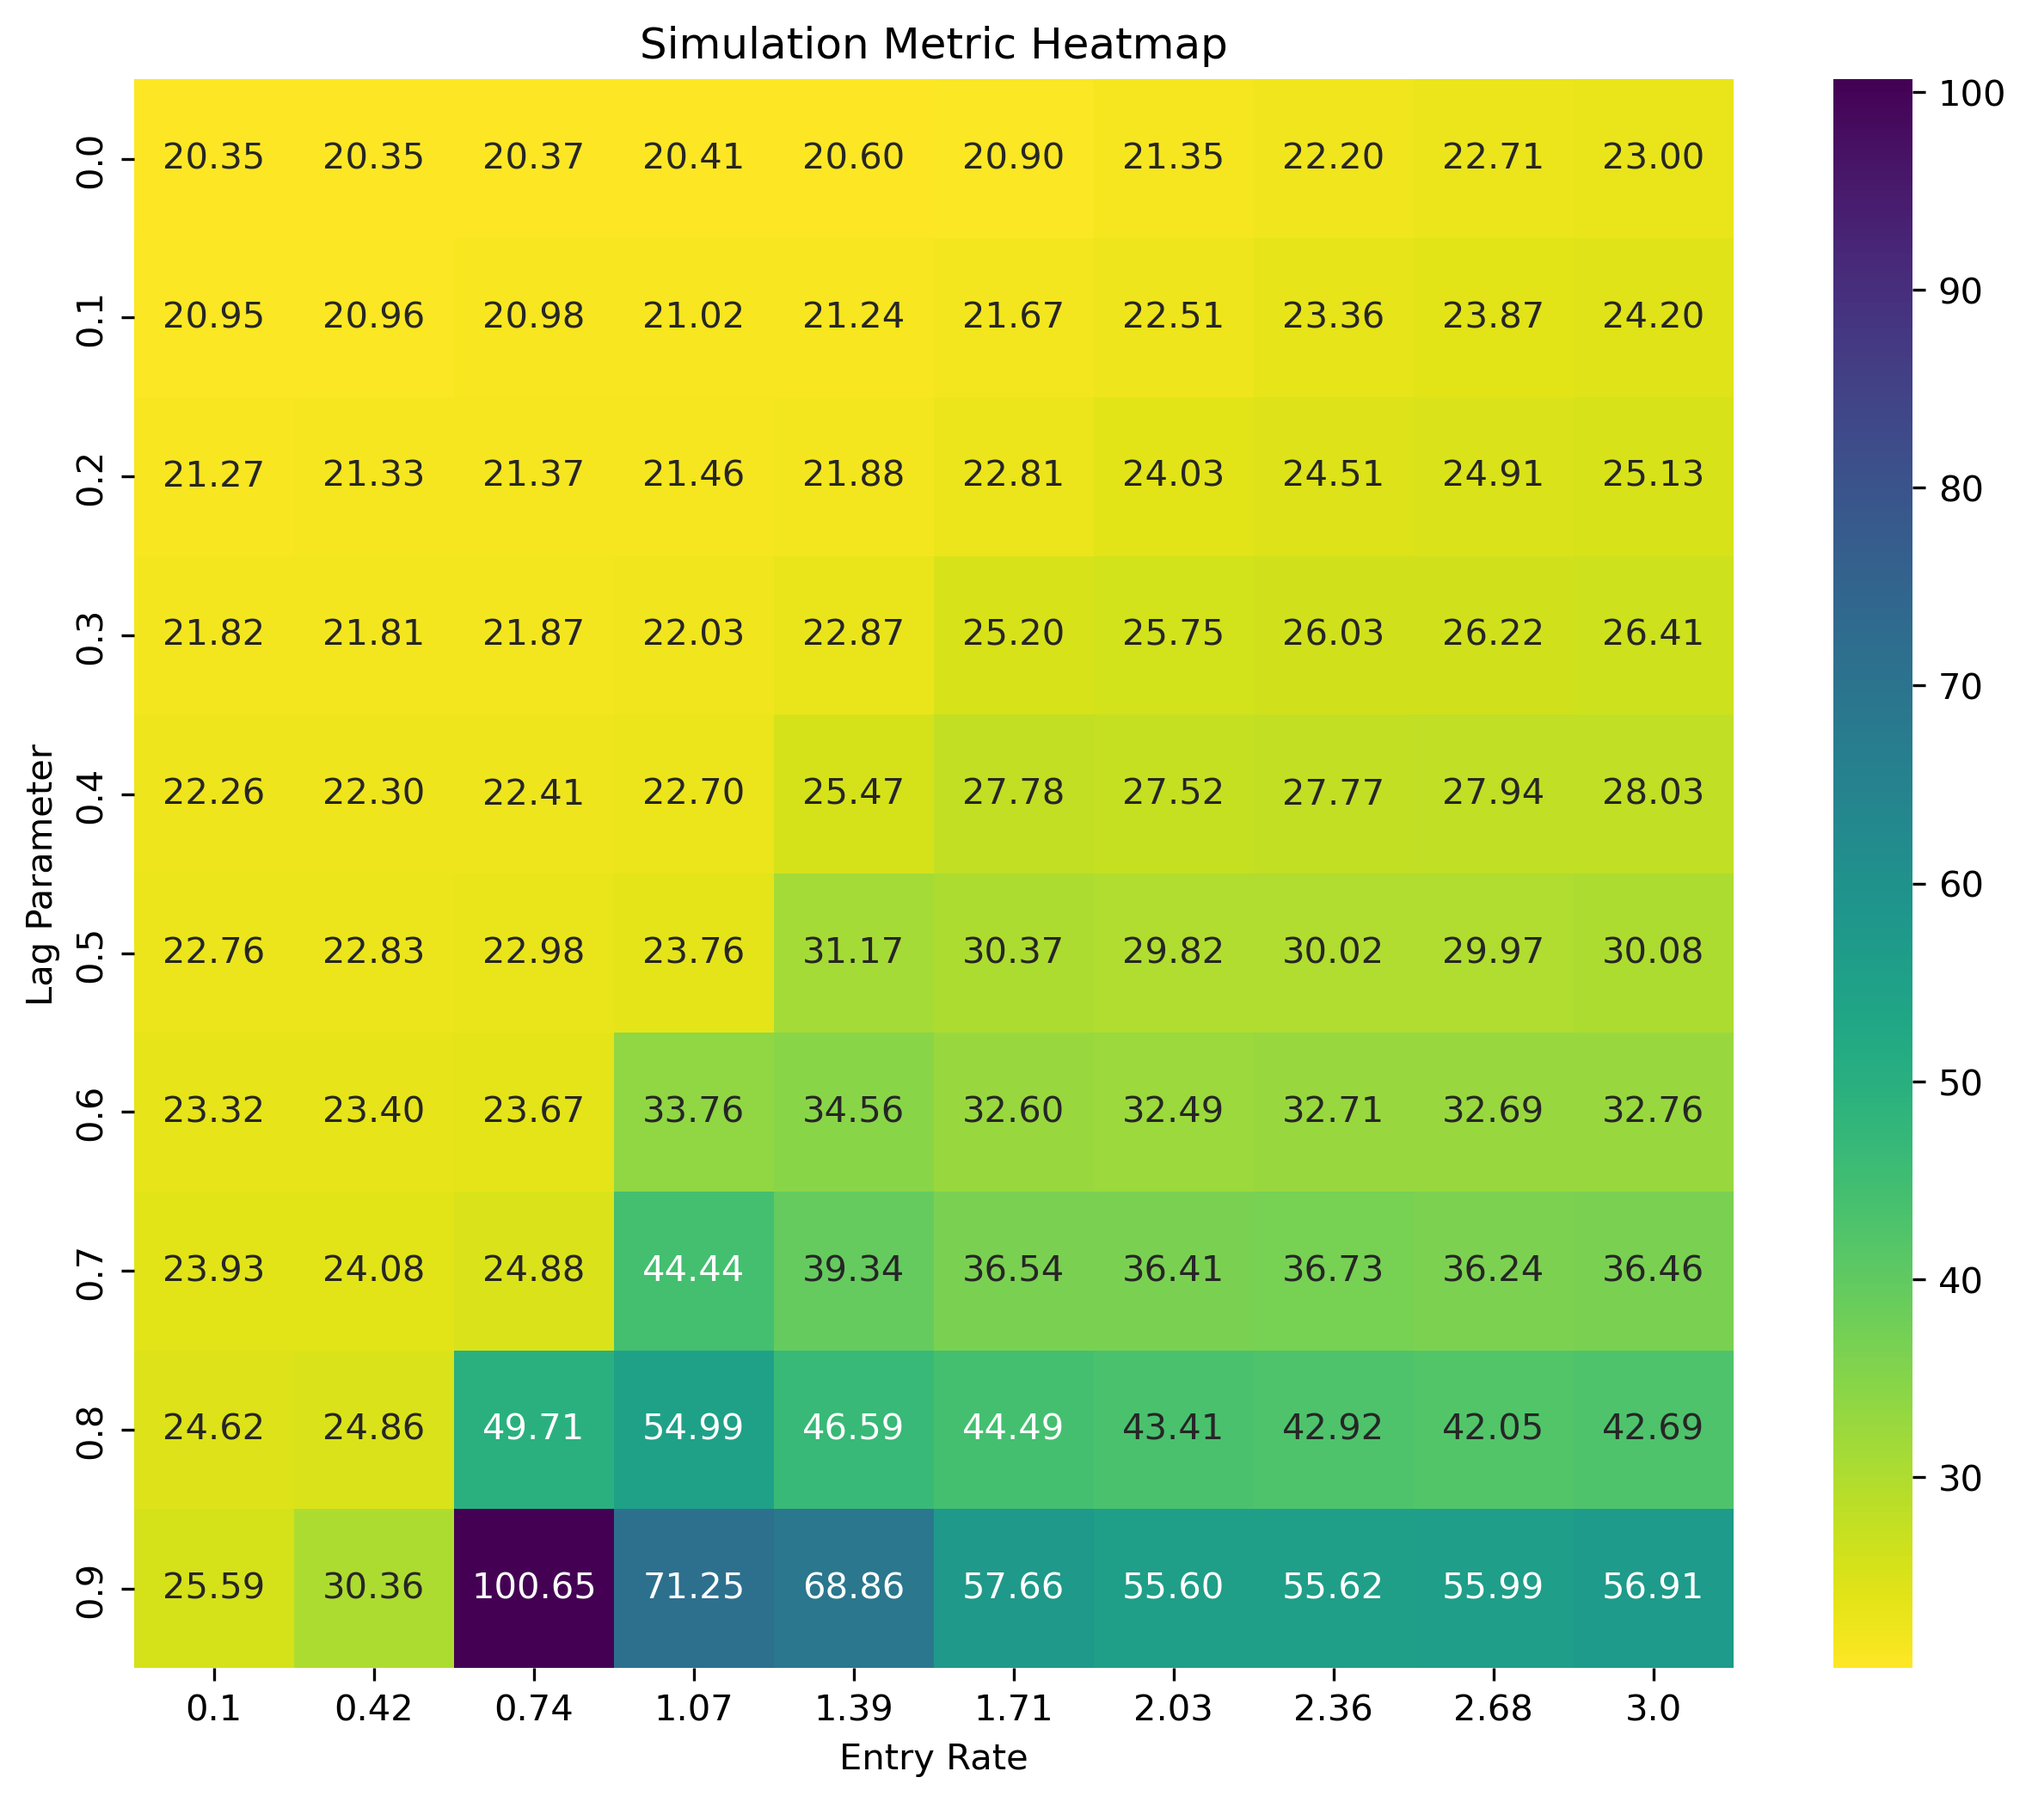
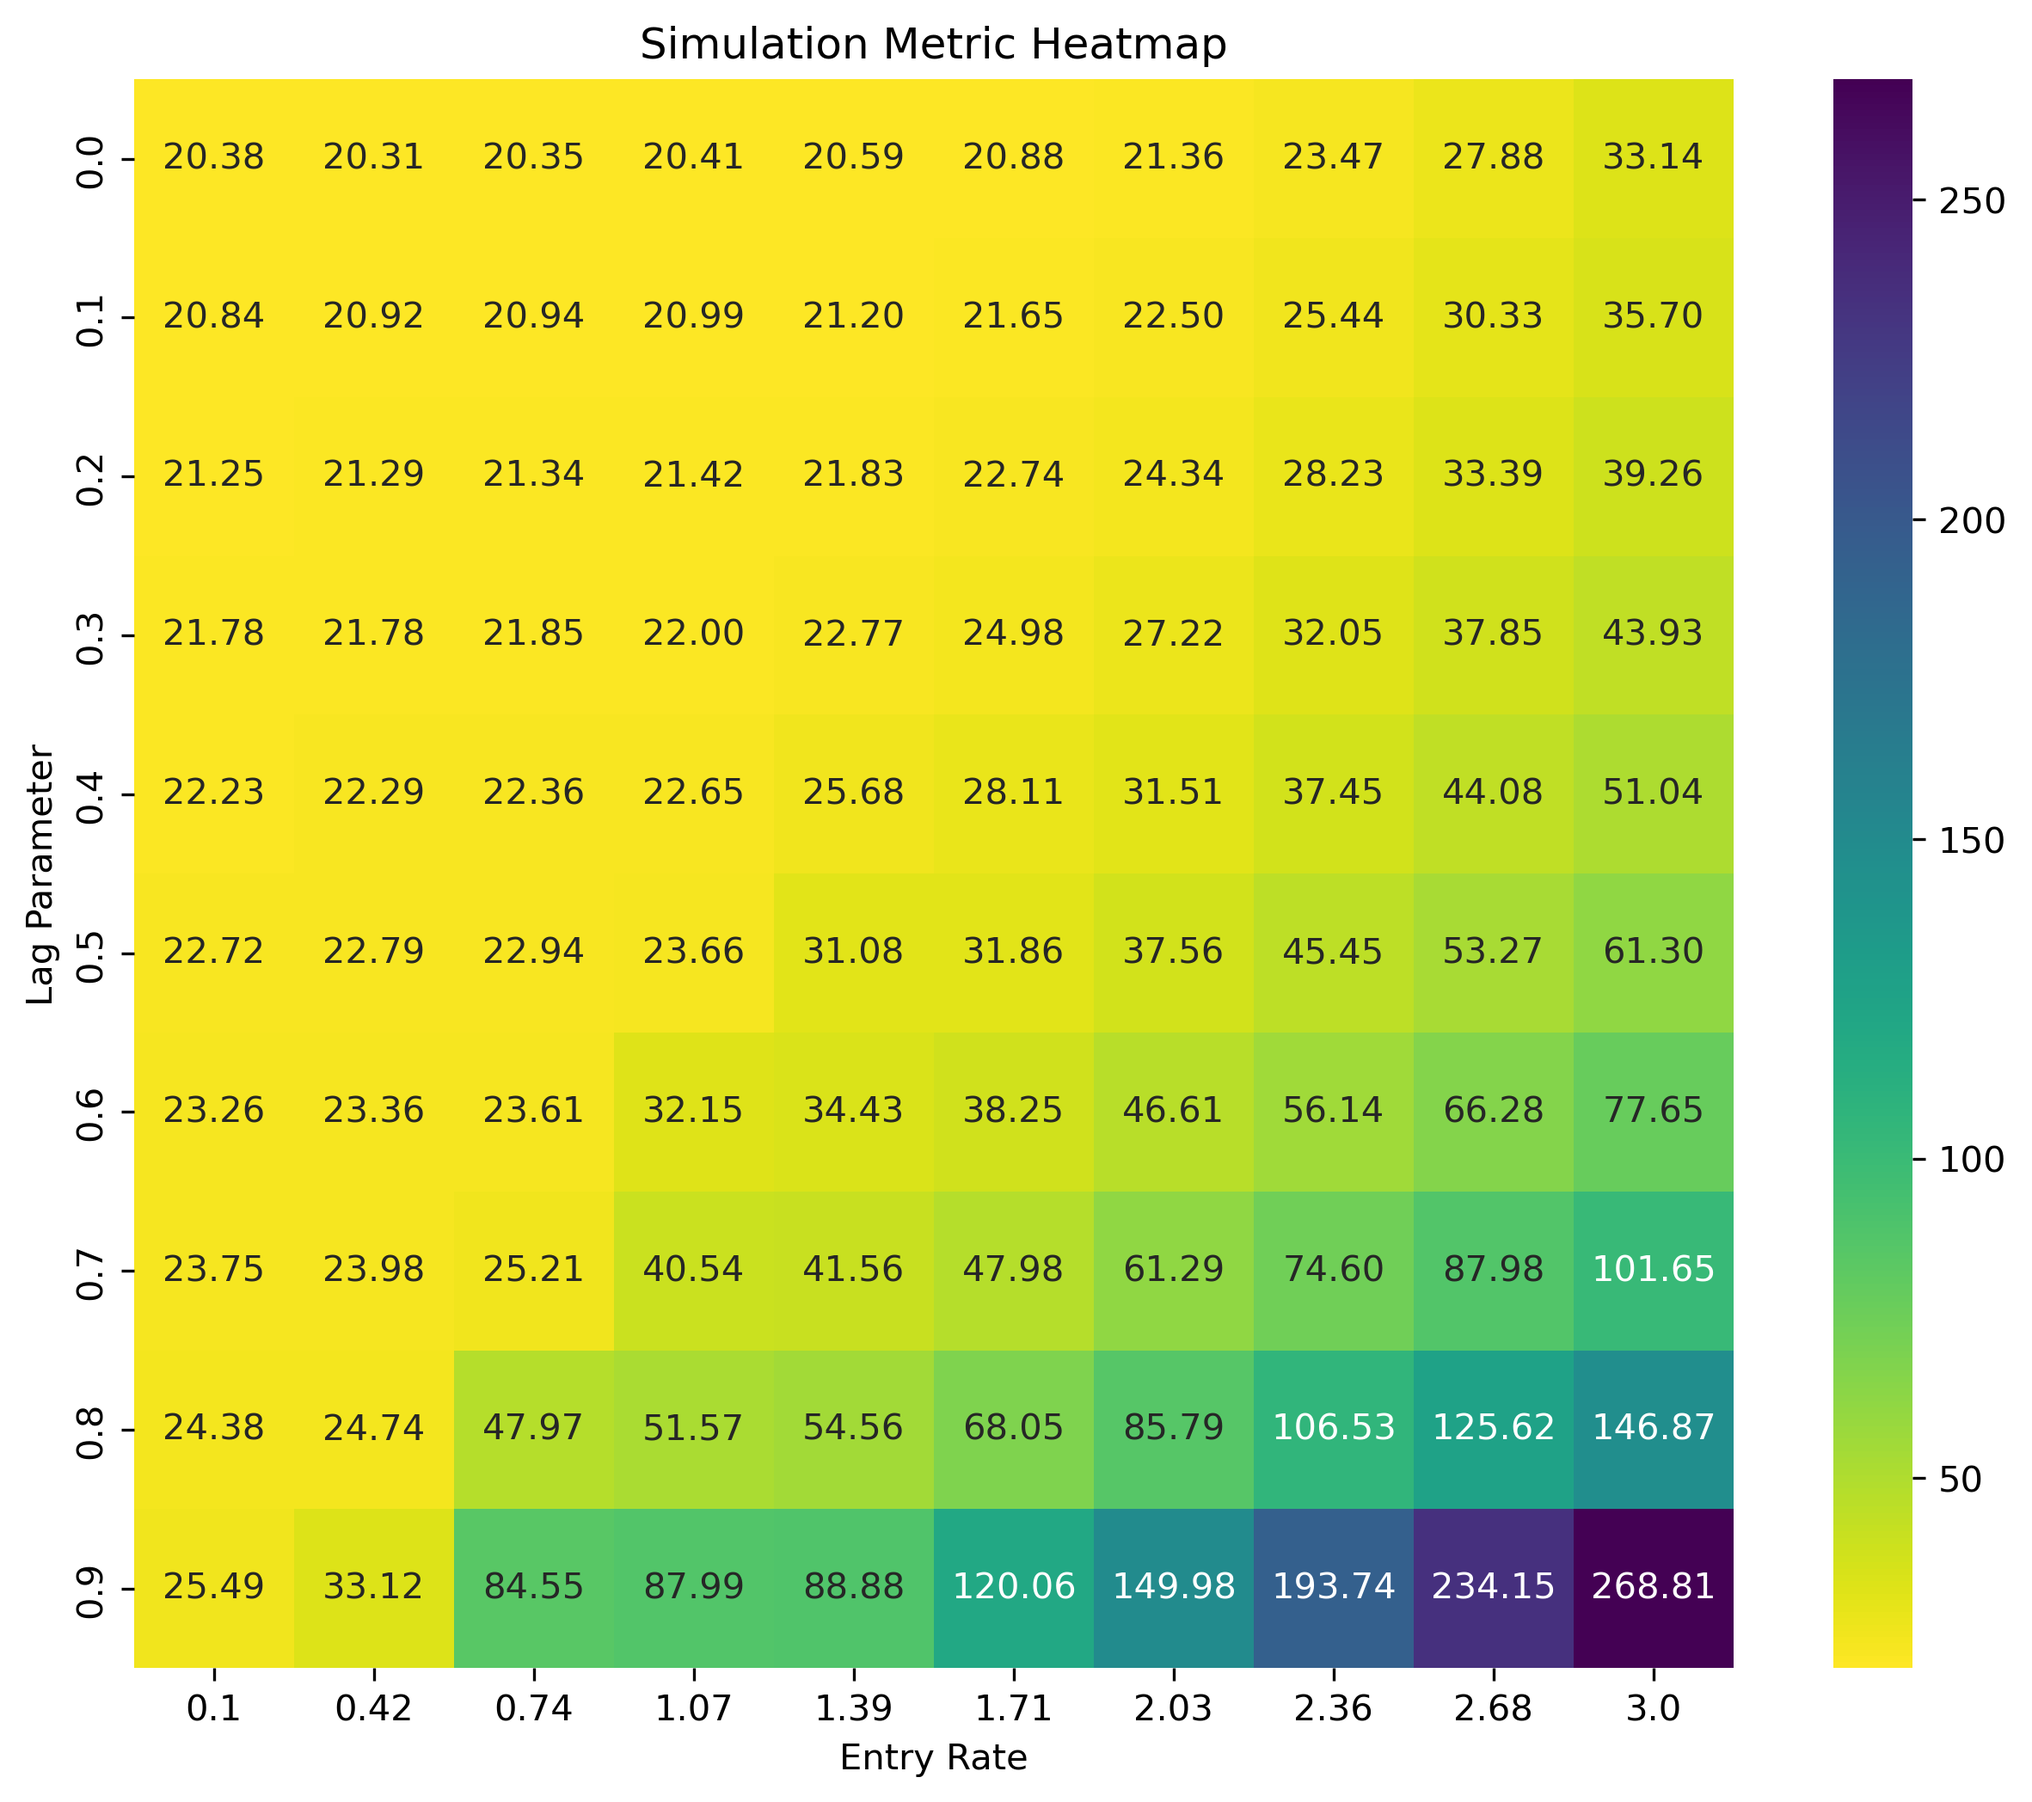
Added calibration

diff --git a/simulation/Calibration.py b/simulation/Calibration.py
@@ -1,0 +1,102 @@
+import numpy as np
+import math
+from concurrent.futures import ProcessPoolExecutor
+
+from SimulationMultiple import SimulationMultiple
+
+class Calibration:
+    def __init__(self, target_travel_time, convergence_range=1, road_length=100, lanes=3,
+                 lag_parameter_min=0, lag_parameter_max=0.9, entry_rate_min=0.1, entry_rate_max=3, repetitions=10):
+        self.target_travel_time = target_travel_time
+        self.convergence_range = convergence_range
+        self.road_length = road_length
+        self.lanes = lanes
+        self.repetitions = repetitions
+
+        self.lag_parameter_min = lag_parameter_min
+        self.lag_parameter_max = lag_parameter_max
+        self.entry_rate_min = entry_rate_min
+        self.entry_rate_max = entry_rate_max
+
+    def calibrate(self, lag_parameter=None, entry_rate=None):
+        # Set the initial parameters if not given
+        if lag_parameter is None:
+            # Initialize the lag_parameter smaller, because it makes sense in the modeled system to not dawdle too much
+            lag_parameter = (self.lag_parameter_max - self.lag_parameter_min) / 3
+        if entry_rate is None:
+            entry_rate = (self.entry_rate_max - self.entry_rate_min) / 2
+        
+        # Define the update steps for the calibration
+        lag_parameter_step = (self.lag_parameter_max - self.lag_parameter_min) / 10
+        entry_rate_step = (self.entry_rate_max - self.entry_rate_min) / 10
+        
+        dist = math.inf
+        counter = 0
+        with ProcessPoolExecutor() as executor:
+            while dist > self.convergence_range and counter < 100: # Hard break criterion
+                counter += 1
+
+                sum_of_avg_travel_times = 0
+                indices = [(self.road_length, self.lanes, lag_parameter, entry_rate)] * self.repetitions
+                for value in executor.map(Calibration.run_simulation, indices):
+                    sum_of_avg_travel_times += value
+                self.result_travel_time = sum_of_avg_travel_times / self.repetitions
+
+                dist_old = dist
+                dist = abs(self.result_travel_time - self.target_travel_time)
+                is_larger = True if self.result_travel_time > self.target_travel_time else False
+
+                self.result_lag_parameter = lag_parameter
+                self.result_entry_rate = entry_rate
+
+                print(f"{counter}. Iteration with lag_parameter {lag_parameter:.3f} and entry_rate {entry_rate:.3f} results in {self.result_travel_time:.2f}s travel time ({dist:.2f}s too {"much" if is_larger else "little"})")
+
+                sign_mult = -1 if is_larger else 1
+
+                lag_parameter_old = lag_parameter
+                lag_parameter += sign_mult * lag_parameter_step
+                lag_parameter = max(min(lag_parameter, self.lag_parameter_max), self.lag_parameter_min)
+                is_lag_parameter_edged = lag_parameter == lag_parameter_old
+
+                entry_rate_old = entry_rate
+                entry_rate += sign_mult * entry_rate_step
+                entry_rate = max(min(entry_rate, self.entry_rate_max), self.entry_rate_min)
+                is_entry_rate_edged = entry_rate == entry_rate_old
+
+                # With increasing iterations increasingly decrease the step sizes
+                step_mult = (0.9 - 0.5*counter/100) if dist <= dist_old else (1.1 - 0.1*counter/100)
+                lag_parameter_step *= step_mult
+                lag_parameter_step = max(lag_parameter_step, (self.lag_parameter_max - self.lag_parameter_min) / 100) # Steps are atleast 1%
+                entry_rate_step *= step_mult
+                entry_rate_step = max(entry_rate_step, (self.entry_rate_max - self.entry_rate_min) / 100)
+
+                # This simple edge check is allowed, because both parameters are strictly monotonic, so no danger of local optima
+                if is_lag_parameter_edged and is_entry_rate_edged:
+                    print("Reached both edges -> Can't improve result")
+                    break
+
+    @staticmethod
+    def run_simulation(args):
+        road_length, lanes, lag_parameter, entry_rate = args
+        sim = SimulationMultiple(road_length, lanes, lag_parameter, entry_rate)
+        sim.run(verbose=False)
+        return sim.get_stats()["time_adj"]
+    
+    def print_results(self):
+        print("\nFinal Parameters:")
+        print(f"    lag_parameter: {self.result_lag_parameter:.3f}")
+        print(f"    entry_rate: {self.result_entry_rate:.3f}")
+        print("Results:")
+        road_length = self.road_length * 7.5
+        print(f"    Road length: {road_length}m")
+        print(f"    Target travel time: {self.target_travel_time:.2f}s")
+        target_speed = road_length / self.target_travel_time
+        print(f"    Target speed: {target_speed:.2f}m/s | {target_speed*3.6:.2f}km/h")
+        print(f"    Result travel time: {self.result_travel_time:.2f}s")
+        result_speed = road_length / self.result_travel_time
+        print(f"    Result speed: {result_speed:.2f}m/s | {result_speed*3.6:.2f}km/h")
+    
+if __name__ == "__main__":
+    cal = Calibration(25, 1)
+    cal.calibrate()
+    cal.print_results()

diff --git a/simulation/SimulationMultiple.py b/simulation/SimulationMultiple.py
@@ -37,6 +37,8 @@ class SimulationMultiple:
         end = time.time()
         if verbose:
             print(f"Warmup progress: 100% - {end - start:.4f} seconds")
+        
+        self.model.reset_stats()
 
         start = time.time()
         mod = math.ceil(s/100)
@@ -101,42 +103,55 @@ class SimulationMultiple:
             "time_min": 0,
             "time_max": 0,
             "time_avg": 0,
-            "velocity_avg": 0
+            "velocity_avg": 0,
+            "cars": 0,
+            "time_avg_by_cars": 0,
+            "velocity_avg_by_cars": 0,
+            "time_adj": 0,
+            "velocity_avg_adj": 0
         }
+
+        # Our method of measuring time has the crucial weakness that it only records cars that complete the track
+        # However, with high lag_parameters cars tend to block the entrance of the road and therefore no more travel, which distorts the data
+        reference_speed = 4 + (1-self.lag_parameter)
+        reference_cars = self.steps * self.entry_rate
+        cars = len(time_stats)
+        time_estimated = self.road_length / ((cars / reference_cars) * reference_speed)
+
+        time_avg = np.average(time_stats)
+
+        # Interpolate a time based on the recorded and estimated times
+        k = time_avg * 0.5
+        t = abs(time_estimated - time_avg) / (abs(time_estimated - time_avg) + k)
+        time_adj = time_avg * (1-t) + time_estimated * t
 
         return {
             "length": self.road_length * 7.5,
             "length_model": self.road_length,
             "time_min": np.min(time_stats),
             "time_max": np.max(time_stats),
-            "time_avg": np.average(time_stats),
-            "velocity_avg": self.road_length * 7.5 / np.average(time_stats)
+            "time_avg": time_avg,
+            "velocity_avg": self.road_length * 7.5 / time_avg,
+            "cars": cars,
+            "time_avg_by_cars": time_estimated,
+            "velocity_avg_by_cars": self.road_length * 7.5 / time_estimated,
+            "time_adj": time_adj,
+            "velocity_avg_adj": self.road_length * 7.5 / time_adj,
         }
     
     def print_stats(self):
         stats = self.get_stats()
         print(f"Total road segment length: {stats["length"]:.0f}m")
-        print(f"Average completion time: {stats["time_avg"]:.2f}s")
-        print(f"Average speed: {stats["velocity_avg"]:.2f}m/s or {stats["velocity_avg"]*3.6:.0f}km/h")
+        print(f"Average completion time (recoded): {stats["time_avg"]:.2f}s")
+        print(f"Average completion time (estimated): {stats["time_avg_by_cars"]:.2f}s")
+        print(f"Average completion time (interpolated): {stats["time_adj"]:.2f}s")
+        print(f"Average speed (recoded): {stats["velocity_avg"]:.2f}m/s or {stats["velocity_avg"]*3.6:.0f}km/h")
+        print(f"Average speed (estimated): {stats["velocity_avg_by_cars"]:.2f}m/s or {stats["velocity_avg_by_cars"]*3.6:.0f}km/h")
+        print(f"Average speed (interpolated): {stats["velocity_avg_adj"]:.2f}m/s or {stats["velocity_avg_adj"]*3.6:.0f}km/h")
 
 if __name__ == "__main__":
-    sim = SimulationMultiple(100, 3, 0.4, 1.8, True)
+    sim = SimulationMultiple(100, 3, 0.33, 1.548, True)
     sim.run()
     sim.print_stats()
     sim.animate(100)
-
-    # stats = { "multi_lane_features": 0, "control": 0 }
-    # sim = SimulationMultiple(200, 3, 0.3, 1.0, True)
-    # for i in range(5):
-    #     sim.run()
-    #     stats["multi_lane_features"] += sim.get_stats()["time_avg"]
-    #     sim.reset()
-    # sim = SimulationMultiple(200, 3, 0.3, 1.0, False)
-    # for i in range(5):
-    #     sim.run()
-    #     stats["control"] += sim.get_stats()["time_avg"]
-    #     sim.reset()
-
-    # print(f"Multi lane feature avg time: {stats['multi_lane_features']/5:.2f}")
-    # print(f"Control avg time: {stats['control']/5:.2f}")
     

diff --git a/simulation/ParameterHeatmap.py b/simulation/ParameterHeatmap.py
@@ -52,6 +52,7 @@ class ParameterHeatmap:
 
         print(f"Generation progress: {self.max_simulations} / {self.max_simulations}")
 
+    # Defined as __call__ so the ProcessPoolExecutor works
     def __call__(self, args):
         i, lag_parameter, j, entry_rate = args
         sum_of_avg_travel_time = 0
@@ -61,7 +62,7 @@ class ParameterHeatmap:
             sim.run(verbose=False)
             current_run = i*self.entry_rate_steps*self.repetitions + j*self.repetitions + (r+1)
             print(f"Generation progress: {current_run} / {self.max_simulations}", end="\r")
-            sum_of_avg_travel_time += sim.get_stats()["time_avg"]
+            sum_of_avg_travel_time += sim.get_stats()["time_adj"]
         return i, j, sum_of_avg_travel_time / self.repetitions
 
     def plot(self, figsize=(10,8), save_path=None):
@@ -80,6 +81,6 @@ class ParameterHeatmap:
         plt.show()
 
 if __name__ == "__main__":
-    ph = ParameterHeatmap(road_length=100, lanes=3, repetitions=3, multi_lane_rules=False)
+    ph = ParameterHeatmap(road_length=100, lanes=3, repetitions=3, multi_lane_rules=True)
     ph.run_simulations()
-    ph.plot(save_path="heatmap_road100_lanes3_no-multi.png")
+    ph.plot(save_path="heatmap_road100_lanes3.png")

diff --git a/simulation/NagelSchreckenbergMultiple.py b/simulation/NagelSchreckenbergMultiple.py
@@ -120,3 +120,6 @@ class NagelSchreckenbergMultiple:
     def get_time_stats(self):
         return np.array(list(self.times_taken.values()))
     
+    def reset_stats(self):
+        self.times_taken = {}
+    
